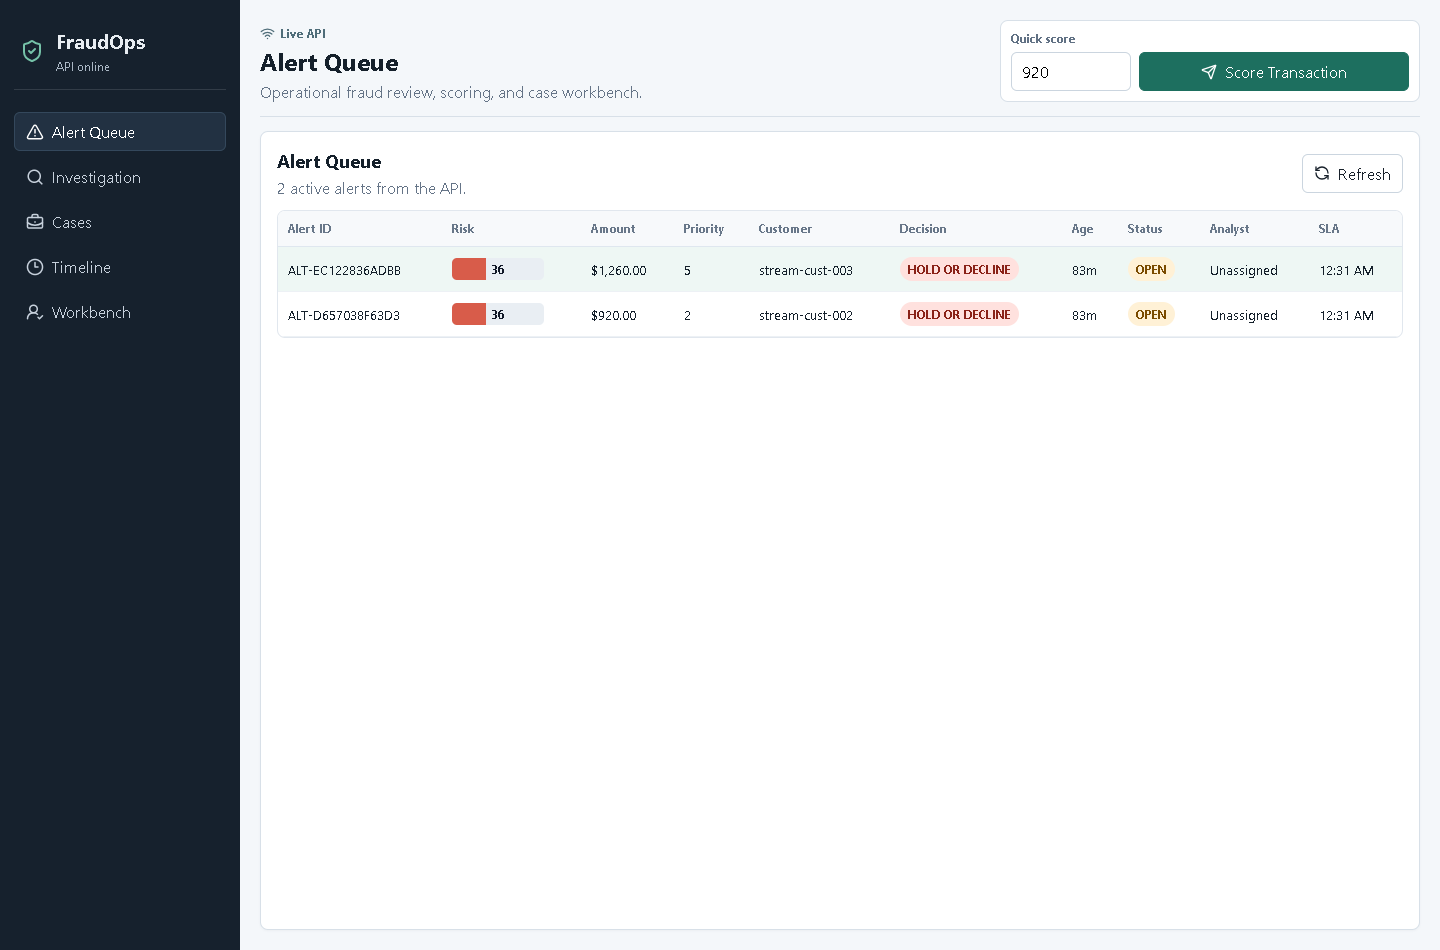
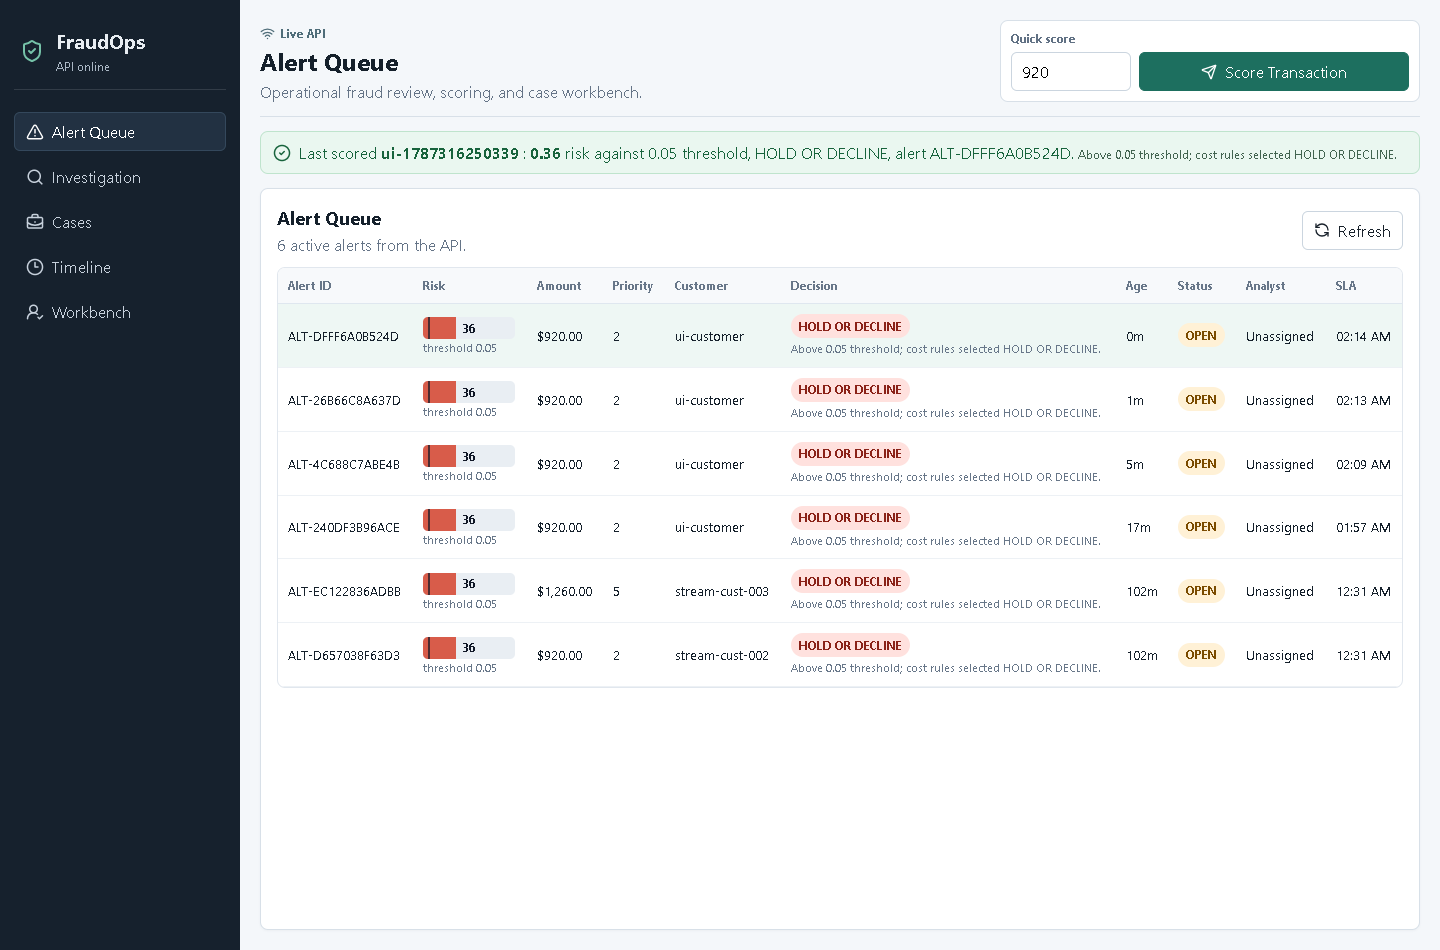
Clarify score threshold decisions

diff --git a/frontend/src/main.jsx b/frontend/src/main.jsx
@@ -73,16 +73,31 @@ function modelLabel(value) {
   return value ? String(value) : "-";
 }
 
+function scoreLabel(value) {
+  return Number.isFinite(value) ? value.toFixed(2) : "-";
+}
+
+function decisionContext(riskScore, threshold, decision) {
+  if (!Number.isFinite(riskScore) || !Number.isFinite(threshold)) return "";
+  const decisionText = String(decision || "").replaceAll("_", " ");
+  return `Above ${scoreLabel(threshold)} threshold; cost rules selected ${decisionText}.`;
+}
+
 function StatusPill({ value }) {
   return <span className={`pill ${String(value).toLowerCase()}`}>{String(value).replaceAll("_", " ")}</span>;
 }
 
-function RiskBar({ value }) {
+function RiskBar({ value, threshold }) {
   const pct = Math.round((value || 0) * 100);
+  const thresholdPct = Math.max(0, Math.min(100, Math.round((threshold || 0) * 100)));
   return (
-    <div className="risk" aria-label={`Risk ${pct}%`}>
-      <span style={{ width: `${pct}%` }} />
-      <b>{pct}</b>
+    <div className="riskWrap">
+      <div className="risk" aria-label={`Risk ${pct}%, threshold ${thresholdPct}%`}>
+        <span style={{ width: `${pct}%` }} />
+        {Number.isFinite(threshold) && <i style={{ left: `${thresholdPct}%` }} title={`Threshold ${thresholdPct}%`} />}
+        <b>{pct}</b>
+      </div>
+      {Number.isFinite(threshold) && <small>threshold {scoreLabel(threshold)}</small>}
     </div>
   );
 }
@@ -119,7 +134,7 @@ function TopNotice({ apiState, error }) {
   );
 }
 
-function AlertQueue({ alerts, selectedAlert, setSelectedAlert, refresh, loading, usingSamples }) {
+function AlertQueue({ alerts, selectedAlert, setSelectedAlert, refresh, loading, usingSamples, threshold }) {
   return (
     <section className="panel fill">
       <div className="toolbar">
@@ -161,11 +176,16 @@ function AlertQueue({ alerts, selectedAlert, setSelectedAlert, refresh, loading,
                   onClick={() => setSelectedAlert(alert)}
                 >
                   <td data-label="Alert ID">{alert.alert_id}</td>
-                  <td data-label="Risk"><RiskBar value={alert.risk_score} /></td>
+                  <td data-label="Risk"><RiskBar value={alert.risk_score} threshold={threshold} /></td>
                   <td data-label="Amount">{money(alert.amount)}</td>
                   <td data-label="Priority">{alert.priority}</td>
                   <td data-label="Customer">{alert.customer_id || "-"}</td>
-                  <td data-label="Decision"><StatusPill value={alert.decision} /></td>
+                  <td data-label="Decision">
+                    <StatusPill value={alert.decision} />
+                    {decisionContext(alert.risk_score, threshold, alert.decision) && (
+                      <small className="decisionNote">{decisionContext(alert.risk_score, threshold, alert.decision)}</small>
+                    )}
+                  </td>
                   <td data-label="Age">{alert.alert_age_minutes}m</td>
                   <td data-label="Status"><StatusPill value={alert.status} /></td>
                   <td data-label="Analyst">{alert.assigned_analyst || "Unassigned"}</td>
@@ -403,14 +423,16 @@ function ScorePanel({ onScored }) {
   );
 }
 
-function LastScored({ result }) {
+function LastScored({ result, threshold }) {
   if (!result) return null;
   return (
     <div className="lastScored">
       <CheckCircle2 size={18} />
       <span>
-        Last scored <b>{result.transaction_id}</b>: <b>{Math.round(result.risk_score * 100)} risk</b>, {result.decision.replaceAll("_", " ")}
-        {result.alert_id ? `, alert ${result.alert_id}` : ", no alert"}
+        Last scored <b>{result.transaction_id}</b>: <b>{scoreLabel(result.risk_score)}</b> risk
+        {Number.isFinite(threshold) ? ` against ${scoreLabel(threshold)} threshold` : ""}, {result.decision.replaceAll("_", " ")}
+        {result.alert_id ? `, alert ${result.alert_id}` : ", no alert"}.
+        {decisionContext(result.risk_score, threshold, result.decision) && <em>{decisionContext(result.risk_score, threshold, result.decision)}</em>}
       </span>
     </div>
   );
@@ -500,7 +522,7 @@ function App() {
           <ScorePanel onScored={onScored} />
         </header>
         <TopNotice apiState={apiState} error={error} />
-        <LastScored result={lastScored} />
+        <LastScored result={lastScored} threshold={model?.threshold} />
         {tab === "queue" && (
           <AlertQueue
             alerts={alerts}
@@ -509,6 +531,7 @@ function App() {
             refresh={refresh}
             loading={loading}
             usingSamples={usingSamples}
+            threshold={model?.threshold}
           />
         )}
         {tab === "investigation" && <Investigation alert={selectedAlert} />}

diff --git a/frontend/src/styles.css b/frontend/src/styles.css
@@ -85,6 +85,8 @@ header p, .toolbar p { margin: 4px 0 0; color: #657487; }
 .notice.warning { background: #fff8e8; border-color: #f2d08a; color: #7a4b00; }
 .notice.info { background: #edf6ff; border-color: #b8d8f4; color: #225d86; }
 .lastScored { background: #eaf7f0; border-color: #bfe4cd; color: #17633c; }
+.lastScored span { display: flex; flex-wrap: wrap; gap: 4px; align-items: baseline; }
+.lastScored em { color: #426450; font-size: 12px; font-style: normal; }
 
 .panel { background: #fff; border: 1px solid #d8e0e8; border-radius: 8px; padding: 16px; min-width: 0; box-shadow: 0 1px 2px rgba(17, 24, 39, .04); }
 .panel.fill { flex: 1; }
@@ -118,9 +120,13 @@ td { padding: 10px; border-bottom: 1px solid #edf1f5; font-size: 13px; white-spa
 tr { cursor: pointer; }
 tr:hover, tr.selected { background: #eef7f4; }
 
+.riskWrap { display: grid; gap: 3px; width: max-content; }
+.riskWrap small { color: #687789; font-size: 11px; line-height: 1; }
 .risk { width: 92px; height: 22px; border-radius: 5px; background: #e9eef3; position: relative; overflow: hidden; display: flex; align-items: center; justify-content: center; }
 .risk span { position: absolute; left: 0; top: 0; bottom: 0; background: #d85c4a; }
+.risk i { position: absolute; top: 0; bottom: 0; width: 2px; background: #111827; opacity: .7; }
 .risk b { position: relative; font-size: 12px; color: #111827; }
+.decisionNote { display: block; max-width: 360px; margin-top: 4px; color: #687789; font-size: 11px; line-height: 1.35; white-space: normal; }
 .pill { display: inline-flex; align-items: center; min-height: 24px; padding: 3px 8px; border-radius: 999px; font-size: 12px; font-weight: 650; background: #eef2f7; color: #3b4754; text-transform: capitalize; }
 .pill.manual_review, .pill.open, .pill.escalated, .pill.ready { background: #fff1d6; color: #7a4b00; }
 .pill.hold_or_decline, .pill.confirmed_fraud { background: #ffe1de; color: #8a2218; }
@@ -195,5 +201,9 @@ dd { margin: 0; font-weight: 650; min-width: 0; overflow-wrap: anywhere; }
     color: #687789;
     font-size: 12px;
     font-weight: 700;
+  }
+  .decisionNote {
+    grid-column: 2;
+    max-width: none;
   }
 }
